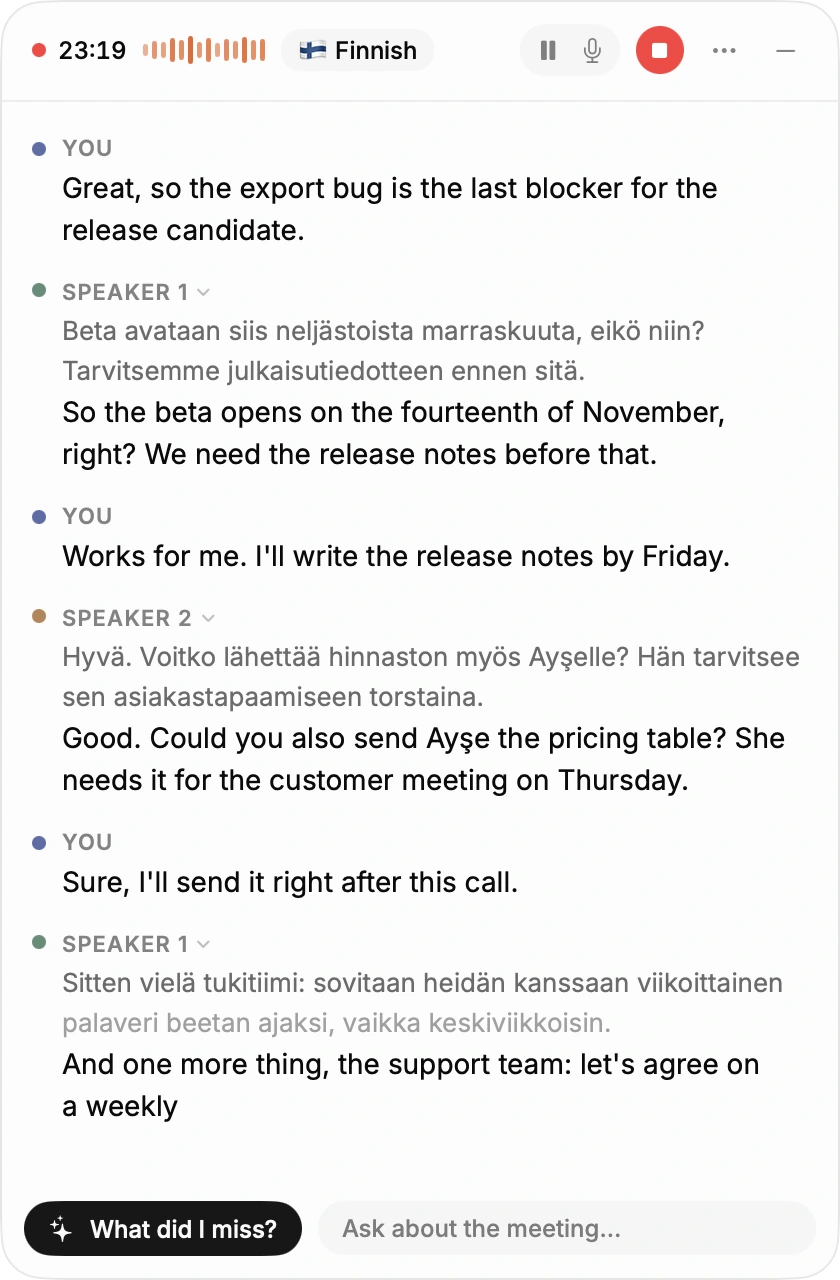
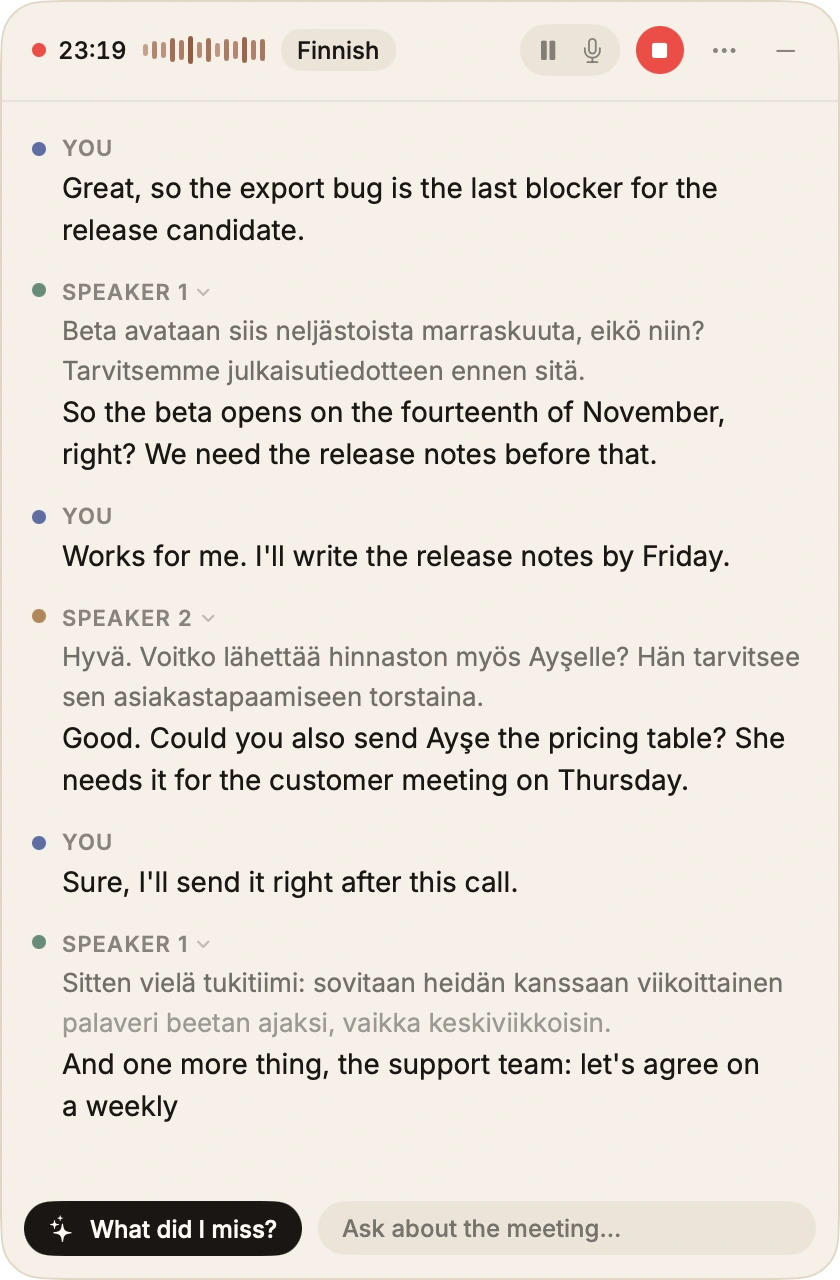
feat(mac): Ember band and orb on the record bar, Ember site screenshots (#382)
* feat(mac): Ember band and orb on the record bar, Ember site screenshots

On the Ember palette the home record bar draws the static Ember band with
contour lines instead of the sunset film, and it is no longer dimmed in the dark
theme: the band is mid-tone already. The orb next to "Start recording" is the
brand Ember orb, independent of the accent. Classic keeps the dimmed film and
the accent-coloured orb exactly as before. Shortcut tiles and covers already
take the palette's warm film families.

The site screenshots (home, note, Ask, live panel; light and dark) are
re-captured in Ember.

* docs: point the record bar comments at heroSurface

---------

Changed region(s): [[0.3714, 0.0, 1.0, 1.0], [0.1548, 0.0, 0.4952, 0.0625], [0.619, 0.0, 0.7429, 0.0625]]

diff --git a/App/MainWindow.swift b/App/MainWindow.swift
@@ -982,8 +982,8 @@ private struct HomePage: View {
 
 }
 
-/// Koyu temada ana sayfadaki kayıt çubuğunun pastel zeminine eklenen karartma (kapakların genel kısmasının üstüne): parlak
-/// gradyan koyu sayfada göze batmasın.
+/// Koyu temada ana sayfadaki kayıt çubuğunun pastel zeminine (Klasik) eklenen karartma (kapakların genel kısmasının
+/// üstüne): parlak gradyan koyu sayfada göze batmasın. Kor bandı orta tonda olduğu için kısılmaz.
 private let homeBarDarkDimming: Double = 0.3
 
 /// Kayıt kartında konuşma modelinin durumu: indiriliyorsa ilerleme, hazırlanamadıysa neden ve "Yeniden dene".
@@ -1048,9 +1048,8 @@ private struct RecordBar: View {
     }
 
     /// Boşta: tek satırlık kayıt çubuğu (sayfanın üçte birini kaplayan büyük kart yerine): küre, "Kaydı başlat" ve
-    /// seçenek çipleri; dar pencerede çipler alt satıra iner. Zemin durağan pastel gradyan, koyu temada belirgin
-    /// kısılır; içerik her temada açık görünümle çizilir. Engel, model ve boş yer bildirimleri çubuğun altında,
-    /// uygulamanın temasında.
+    /// seçenek çipleri; dar pencerede çipler alt satıra iner. Zemin durağandır (bkz. `heroSurface`); içerik her temada
+    /// açık görünümle çizilir. Engel, model ve boş yer bildirimleri çubuğun altında, uygulamanın temasında.
     private var hero: some View {
         VStack(alignment: .leading, spacing: 10) {
             ViewThatFits(in: .horizontal) {
@@ -1067,13 +1066,10 @@ private struct RecordBar: View {
             .padding(.horizontal, 12)
             .padding(.vertical, 10)
             .frame(maxWidth: .infinity, alignment: .leading)
-            // İçerik her temada açık görünümde; zemin sonra eklenir ki uygulamanın temasını görsün ve koyu temada kısılsın.
+            // İçerik her temada açık görünümde; zemin sonra eklenir ki uygulamanın temasını görsün (bkz. `heroSurface`).
             .environment(\.colorScheme, .light)
             .background {
-                FilmGradient(seed: "kayit-karti", palette: .sunset)
-                    .dimmedInDarkTheme()
-                    .overlay { Color.black.opacity(colorScheme == .dark ? homeBarDarkDimming : 0).allowsHitTesting(false) }
-                    .clipShape(RoundedRectangle(cornerRadius: 18, style: .continuous))
+                heroSurface.clipShape(RoundedRectangle(cornerRadius: 18, style: .continuous))
             }
             if let startBlock {
                 StartBlockView(notice: startBlock, onResolve: onResolve)
@@ -1084,6 +1080,19 @@ private struct RecordBar: View {
         }
         // Çubuk her göründüğünde (açılış, kayıt bitince) boş yer yeniden okunur.
         .task { model.refreshRecordingDiskSpace() }
+    }
+
+    /// Kayıt çubuğunun zemini: Klasik'te koyu temada kısılan pastel film; Kor'da kontur çizgili Kor bandı (orta tonda,
+    /// koyu temada kısılmaz).
+    @ViewBuilder private var heroSurface: some View {
+        switch ThemeStore.shared.palette.brand {
+        case .film:
+            FilmGradient(seed: "kayit-karti", palette: .sunset)
+                .dimmedInDarkTheme()
+                .overlay { Color.black.opacity(colorScheme == .dark ? homeBarDarkDimming : 0).allowsHitTesting(false) }
+        case .ember:
+            EmberBand(contourSeed: "kayit-karti", contourCount: 5)
+        }
     }
 
     /// Küre ve "Kaydı başlat".
@@ -1101,14 +1110,22 @@ private struct RecordBar: View {
         .fixedSize()
     }
 
-    private func orb(size: CGFloat) -> some View {
-        Circle()
-            .fill(RadialGradient(
-                colors: [appearance.accent.color.mix(with: .white, by: 0.45), appearance.accent.color, appearance.accent.color.mix(with: .black, by: 0.55)],
-                center: UnitPoint(x: 0.35, y: 0.35), startRadius: 1, endRadius: size * 0.65
-            ))
-            .frame(width: size, height: size)
-            .tilt3D(maxAngle: 8)
+    /// Küre: Klasik'te vurgu renginde, Kor'da marka küresi (vurgudan bağımsız).
+    @ViewBuilder private func orb(size: CGFloat) -> some View {
+        switch ThemeStore.shared.palette.brand {
+        case .film:
+            Circle()
+                .fill(RadialGradient(
+                    colors: [appearance.accent.color.mix(with: .white, by: 0.45), appearance.accent.color, appearance.accent.color.mix(with: .black, by: 0.55)],
+                    center: UnitPoint(x: 0.35, y: 0.35), startRadius: 1, endRadius: size * 0.65
+                ))
+                .frame(width: size, height: size)
+                .tilt3D(maxAngle: 8)
+        case .ember:
+            EmberOrb(gradient: .brand)
+                .frame(width: size, height: size)
+                .tilt3D(maxAngle: 8)
+        }
     }
 
     /// Seçenekler gerekirse alt satıra geçer: dar pencerede, İngilizcede ya da büyük arayüz boyutunda çubuğun dışına

diff --git a/Packages/AINotepadCore/Sources/AINotepadUI/EmberBand.swift b/Packages/AINotepadCore/Sources/AINotepadUI/EmberBand.swift
@@ -204,6 +204,10 @@ public struct EmberOrbGradient: Equatable, Sendable {
         left.center == right.center && left.stops.map(\.color) == right.stops.map(\.color) && left.stops.map(\.location) == right.stops.map(\.location)
     }
 
+    /// Marka küresi (Mac'teki kayıt çubuğu): sol üstte kum ışığı, kenarda koyu bakır.
+    public static let brand: EmberOrbGradient = EmberOrbGradient(
+        center: UnitPoint(x: 0.34, y: 0.30), stops: [(0xF4E3CF, 0), (0xCF9670, 0.22), (EmberStop.e500, 0.5), (0x5A2C1D, 0.88)]
+    )
     /// Kayıt düğmesi (iPhone): ışık kenara yakın, ortası koyu (beyaz mikrofon okunur).
     public static let recordButton: EmberOrbGradient = EmberOrbGradient(
         center: UnitPoint(x: 0.22, y: 0.18), stops: [(0xE9C9AC, 0), (EmberStop.e500, 0.26), (EmberStop.e600, 0.55), (EmberStop.e900, 1)]

diff --git a/Packages/AINotepadCore/Sources/AINotepadUI/ThemeFamily.swift b/Packages/AINotepadCore/Sources/AINotepadUI/ThemeFamily.swift
@@ -107,8 +107,9 @@ public struct FilmSet: Equatable, Sendable {
     }
 }
 
-/// Marka yüzeyleri (iPhone'daki kayıt düğmesi, alt bant ve giriş kartı): film gradyanı ve vurgu renginde düğme
-/// (Klasik) ya da Kor bandı, kontur çizgileri ve Kor küresi (vurgudan bağımsız).
+/// Marka yüzeyleri (Mac'teki kayıt çubuğu ve küresi; iPhone'daki kayıt düğmesi, alt bant ve giriş kartı): film gradyanı ve
+/// vurgu renginde küre (Klasik) ya da Kor bandı, kontur çizgileri ve Kor küresi (vurgudan bağımsız). Kısayol kutuları
+/// ve kapaklar paletin film ailelerini kullanır.
 public enum BrandSurface: Equatable, Sendable {
     case film
     case ember
